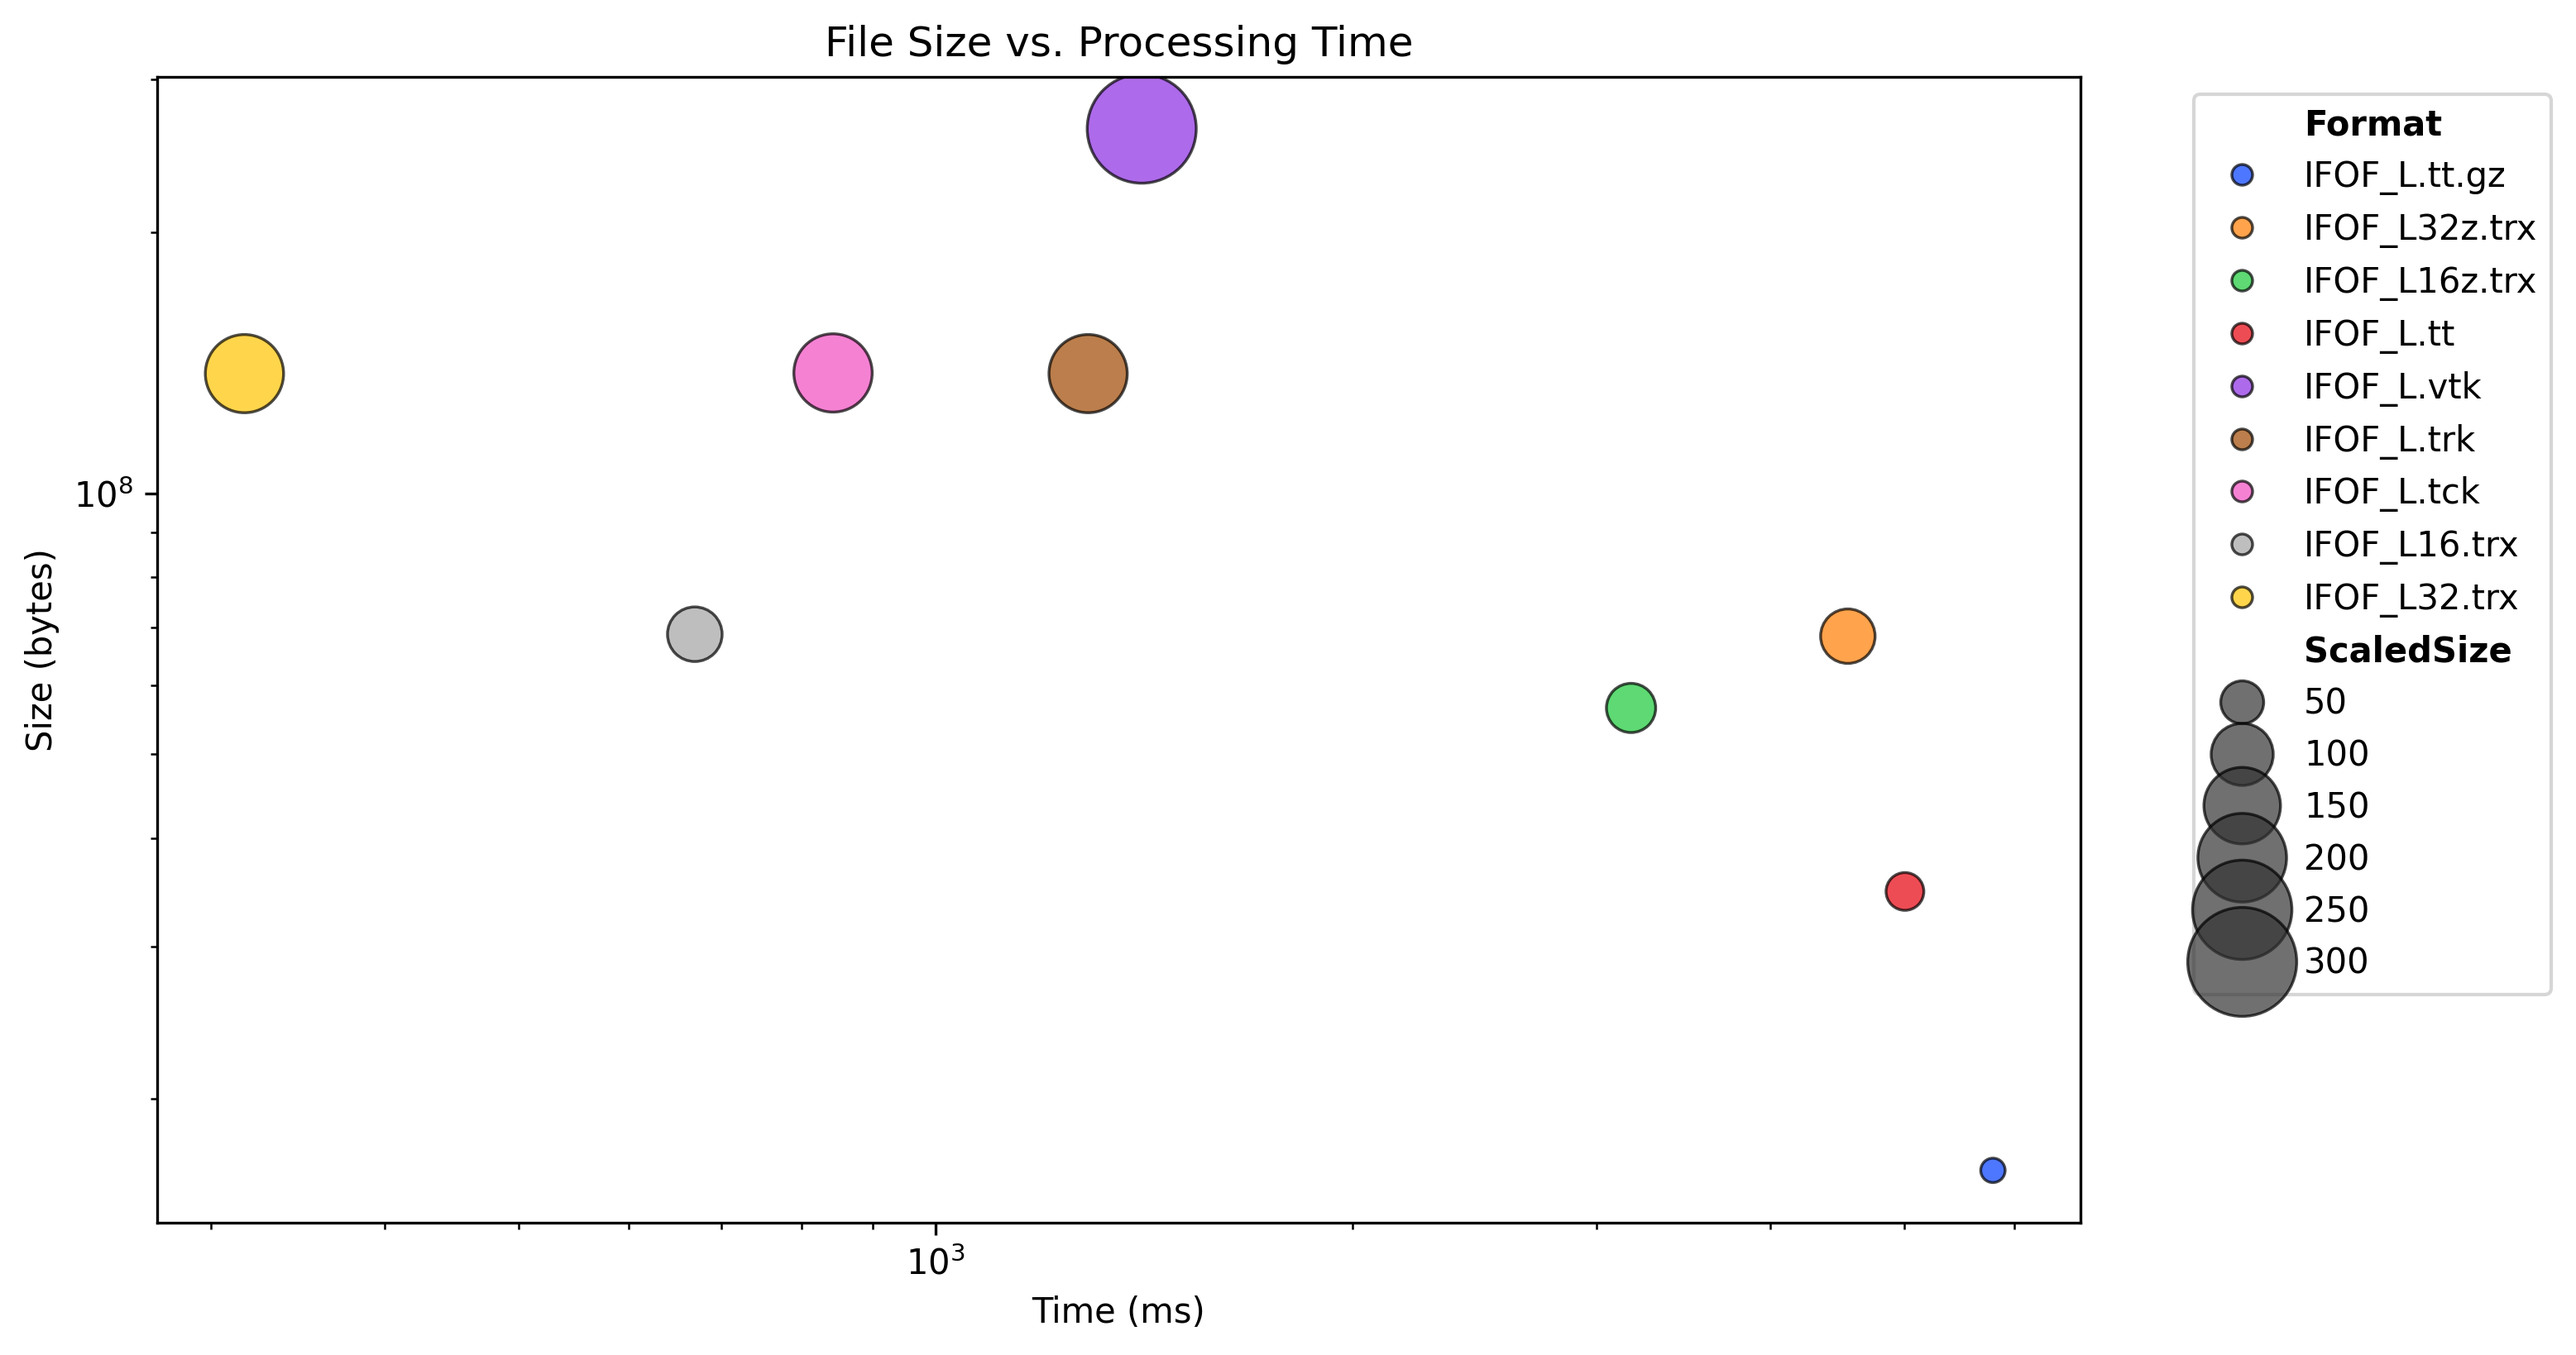
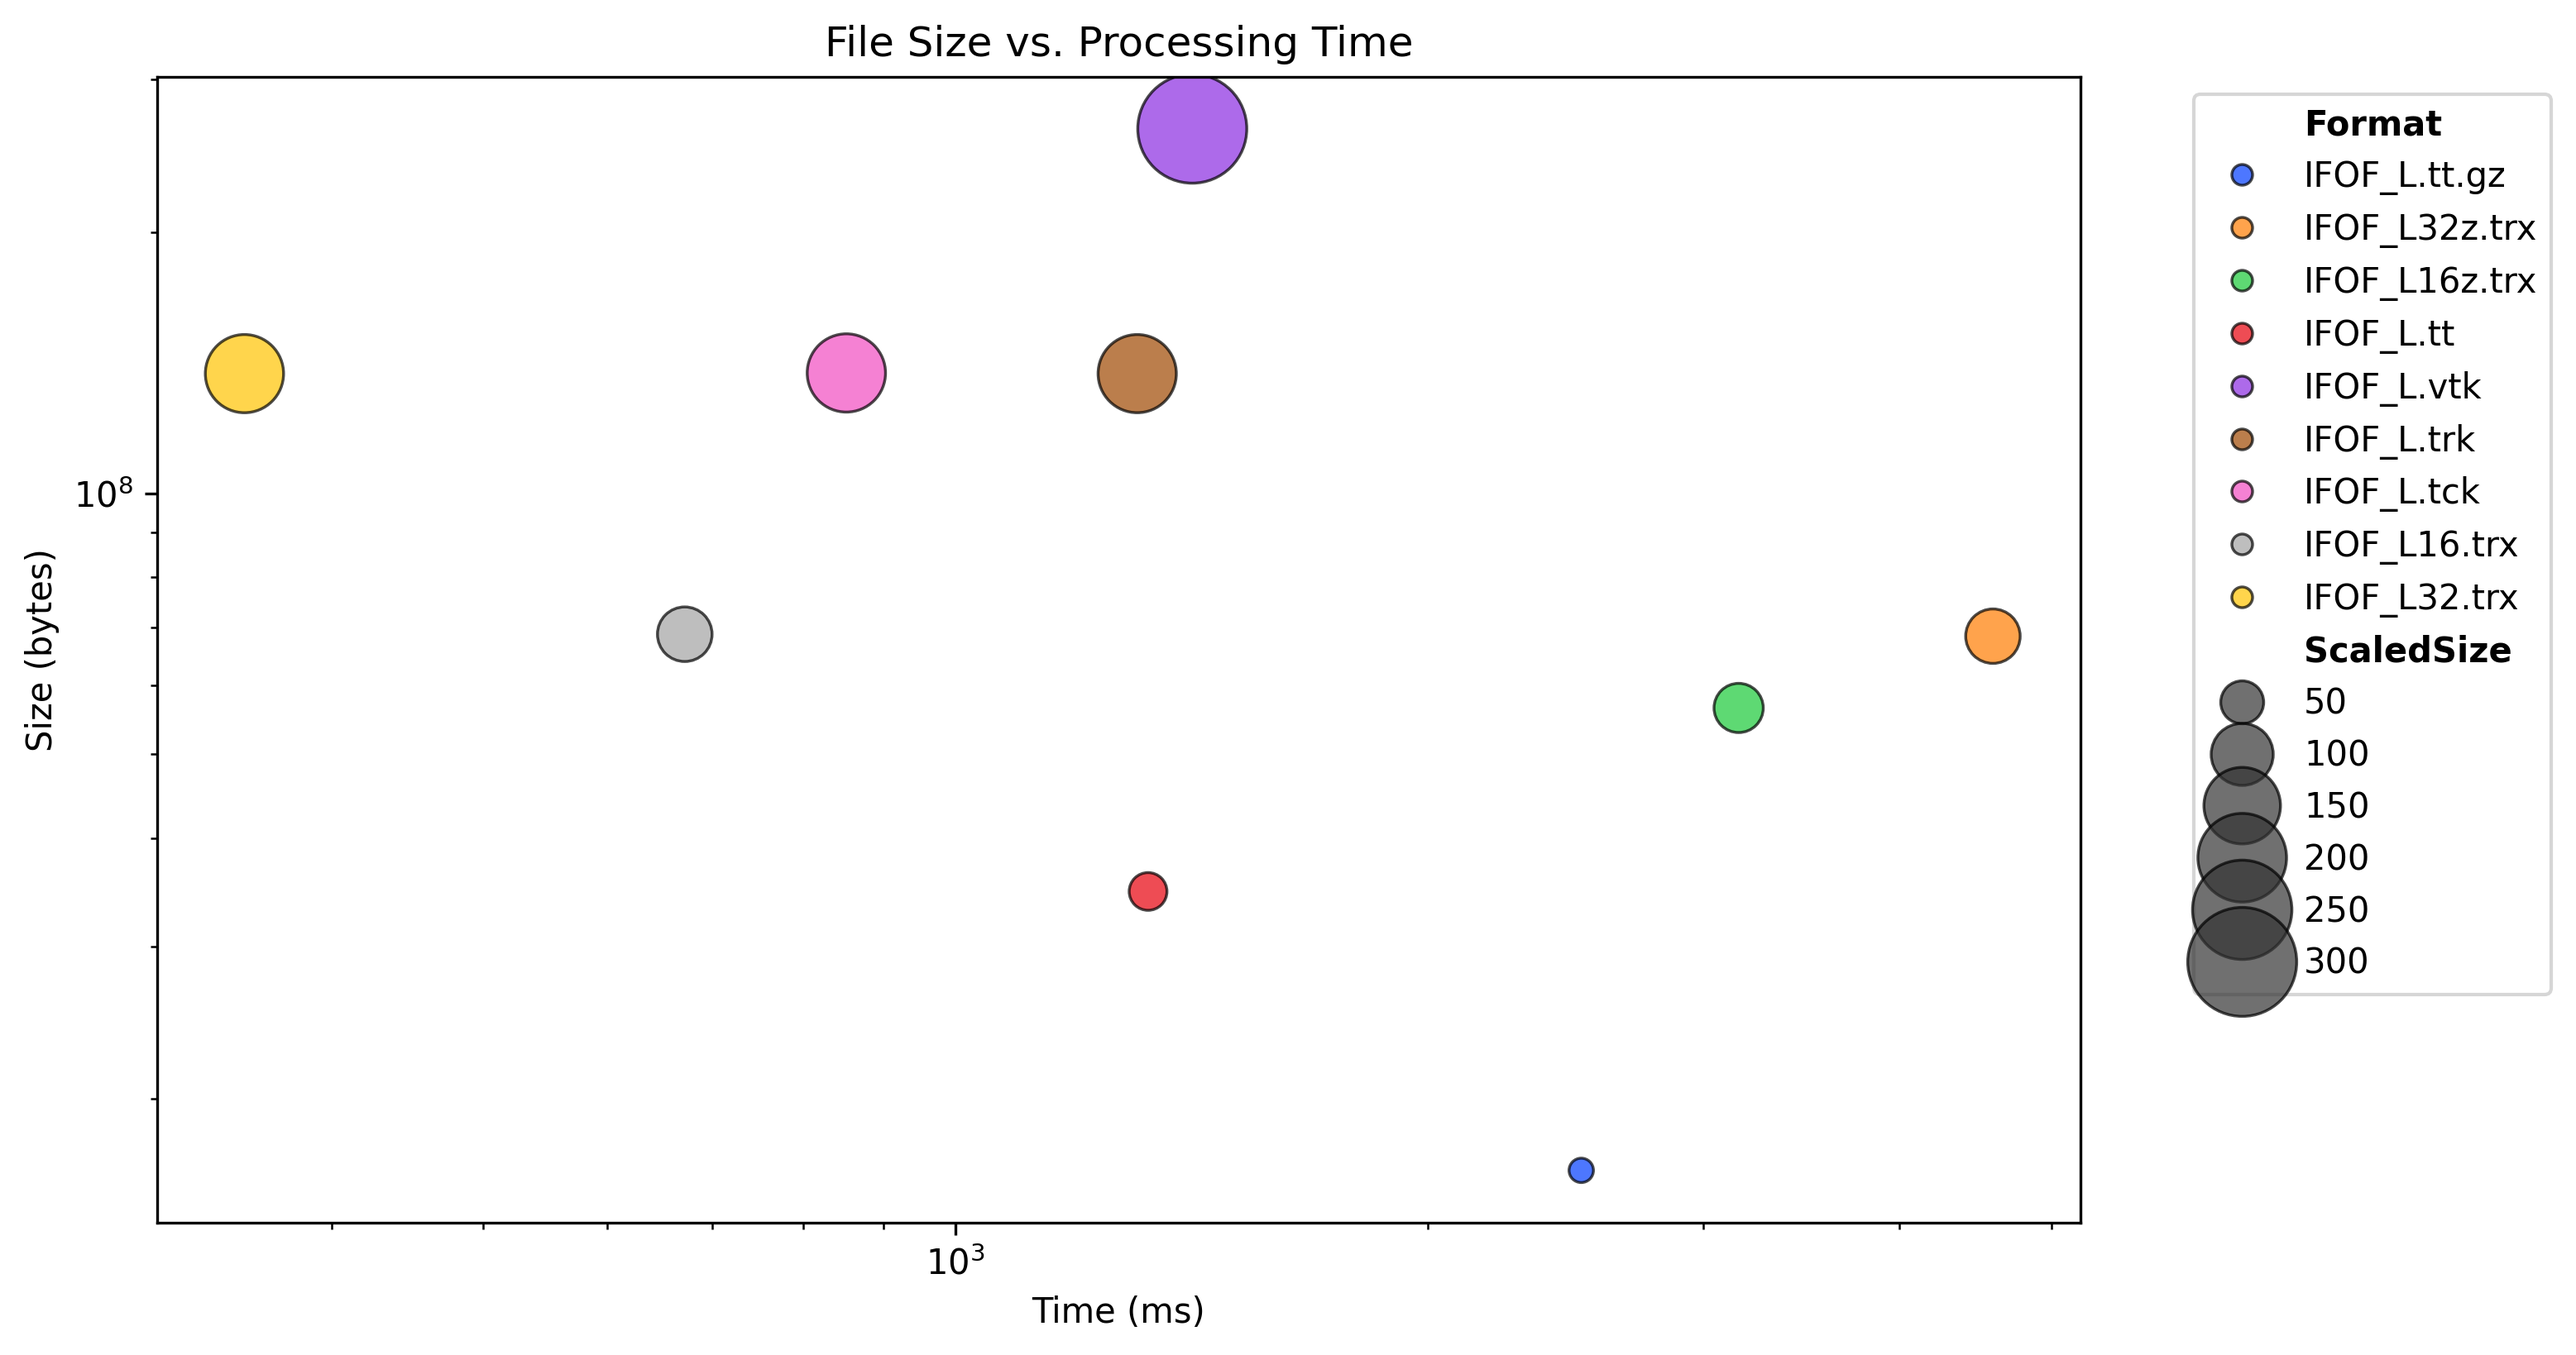
Optimize TinyTrack tt (https://github.com/tee-ar-ex/trx-javascript/issues/5)

diff --git a/src/nvtract-loaders.ts b/src/nvtract-loaders.ts
@@ -434,8 +434,7 @@ export async function readTT(buffer: ArrayBuffer): Promise<TT> {
     const dv = new DataView(track.buffer)
     const pos = []
     let nvert3 = 0
-    let i = 0
-    while (i < track.length) {
+    for (let i = 0; i < track.length; ) {
       pos.push(i)
       const newpts = dv.getUint32(i, true)
       i = i + newpts + 13
@@ -467,13 +466,13 @@ export async function readTT(buffer: ArrayBuffer): Promise<TT> {
     for (let i = 0; i < npt; i++) {
       pts[i] = pts[i] / 32.0
     }
-    let v = 0
-    for (let i = 0; i < npt / 3; i++) {
-      const pos = vec4.fromValues(pts[v], pts[v + 1], pts[v + 2], 1)
-      vec4.transformMat4(pos, pos, trans_to_mni)
-      pts[v++] = pos[0]
-      pts[v++] = pos[1]
-      pts[v++] = pos[2]
+    for (let v = 0; v < npt; v += 3) {
+      const x = pts[v],
+        y = pts[v + 1],
+        z = pts[v + 2]
+      pts[v] = trans_to_mni[0] * x + trans_to_mni[4] * y + trans_to_mni[8] * z + trans_to_mni[12]
+      pts[v + 1] = trans_to_mni[1] * x + trans_to_mni[5] * y + trans_to_mni[9] * z + trans_to_mni[13]
+      pts[v + 2] = trans_to_mni[2] * x + trans_to_mni[6] * y + trans_to_mni[10] * z + trans_to_mni[14]
     }
     offsetPt0[pos.length] = npt / 3 // solve fence post problem, offset for final streamline
   } // parse_tt()
